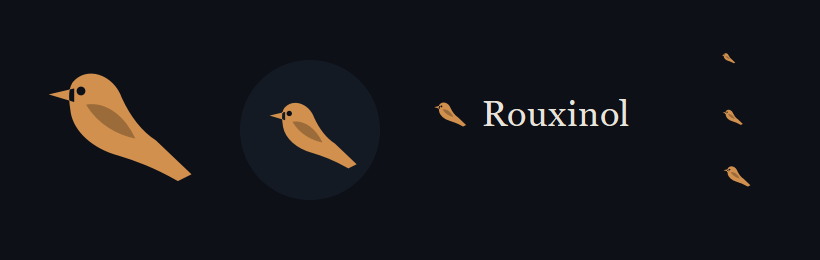
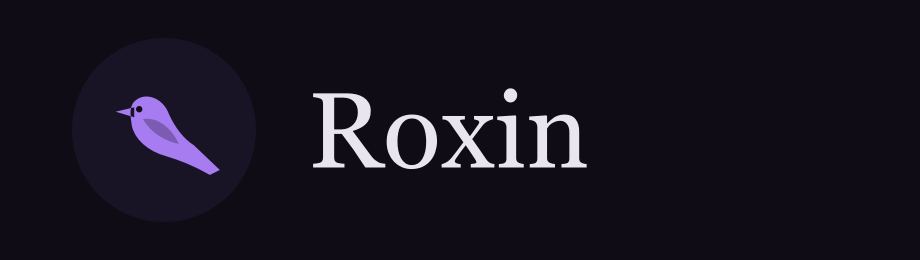
A marca do README volta a ser a de hoje: roxo e "Roxin"
A imagem do topo era um render fossil: dizia "Rouxinol" e trazia o passaro em
ambar, de antes de a identidade estar decidida. O codigo ja desenhava certo --
a constante em marca.py ainda se chama AMBAR, mas guarda o roxo #a77cf0 desde
21/09. So a imagem e que tinha envelhecido.

O gerador vai junto, versionado, porque foi exatamente isso que faltou: o script
do render antigo se perdeu, entao a imagem nao tinha como ser refeita e ninguem
percebeu que ela mentia. Agora `python docs/gerar_marca.py` refaz a marca a
partir de marca.py, sempre na cor de hoje.

diff --git a/docs/gerar_marca.py b/docs/gerar_marca.py
@@ -1,0 +1,67 @@
+# -*- coding: utf-8 -*-
+"""Gera docs/marca.png — o pássaro e o nome, na cor de hoje.
+
+Existe versionado de proposito: a imagem anterior era um render solto, de quando
+o app se chamava "Rouxinol" e a marca era ambar. O script que a gerou se perdeu,
+entao ninguem percebeu que a imagem tinha envelhecido. Esta aqui para que a marca
+do README seja sempre refeita a partir de `marca.py`, nunca de um arquivo antigo.
+
+    python docs/gerar_marca.py
+"""
+import os, sys
+
+RAIZ = os.path.dirname(os.path.dirname(os.path.abspath(__file__)))
+sys.path.insert(0, RAIZ)
+
+from PySide6.QtWidgets import QApplication
+from PySide6.QtGui import QPainter, QPixmap, QColor, QFont
+from PySide6.QtCore import Qt, QPointF, QRectF
+
+import marca as M
+
+ESCALA = 2                      # render em 2x: fica nitido em tela retina
+L, A   = 460 * ESCALA, 130 * ESCALA
+
+
+def main():
+    app = QApplication(sys.argv)     # sem plataforma "offscreen": ela nao acha
+                                     # as fontes do Windows e o texto sai quadrado
+    pm = QPixmap(L, A)
+    pm.fill(QColor(M.NOITE))
+
+    pt = QPainter(pm)
+    pt.setRenderHint(QPainter.Antialiasing, True)
+    pt.setRenderHint(QPainter.TextAntialiasing, True)
+
+    # disco do painel atras do passaro, como no canto da janela
+    disco = 92 * ESCALA
+    cx, cy = 36 * ESCALA + disco / 2, A / 2
+    pt.setPen(Qt.NoPen)
+    pt.setBrush(QColor(M.PAINEL))
+    pt.drawEllipse(QPointF(cx, cy), disco / 2, disco / 2)
+
+    # o passaro, na cor de destaque de hoje (M.AMBAR guarda o roxo #a77cf0)
+    passaro = 62 * ESCALA
+    pt.save()
+    pt.translate(cx - passaro / 2, cy - passaro / 2 + 2 * ESCALA)
+    M.desenhar(pt, passaro, M.AMBAR)
+    pt.restore()
+
+    # o nome, em serifa — a marca fala Georgia, a interface fala Segoe UI
+    f = QFont("Georgia", 40 * ESCALA)
+    f.setStyleStrategy(QFont.PreferAntialias)
+    pt.setFont(f)
+    pt.setPen(QColor(M.PENA))
+    x = 36 * ESCALA + disco + 26 * ESCALA
+    pt.drawText(QRectF(x, 0, L - x, A), Qt.AlignVCenter | Qt.AlignLeft, "Roxin")
+
+    pt.end()
+
+    destino = os.path.join(RAIZ, "docs", "marca.png")
+    pm.save(destino)
+    print("marca gerada:", destino, "|", L, "x", A,
+          "| passaro:", M.AMBAR, "| fundo:", M.NOITE)
+
+
+if __name__ == "__main__":
+    main()
